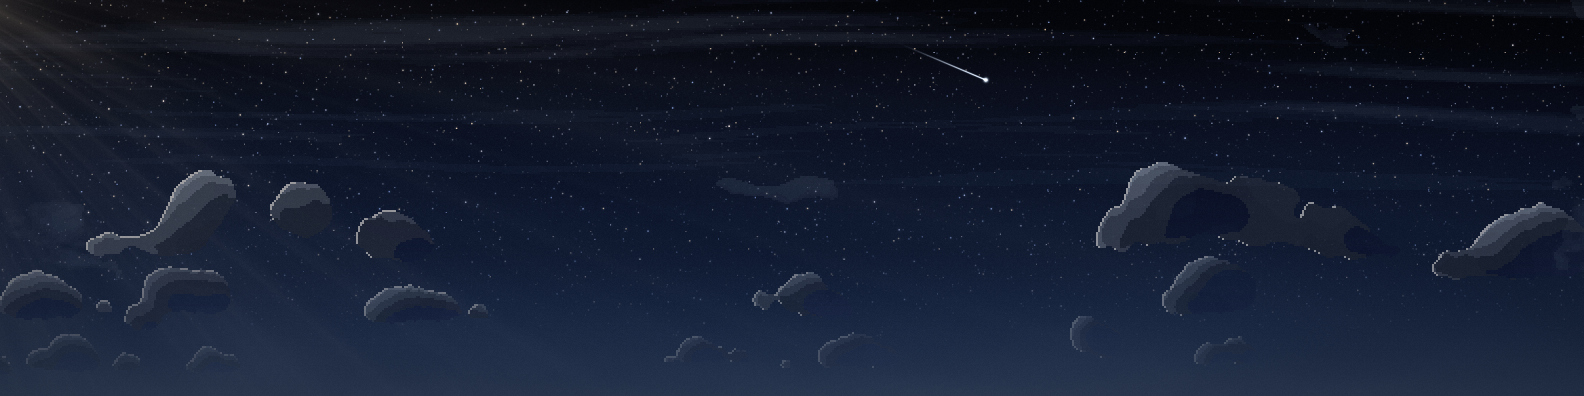
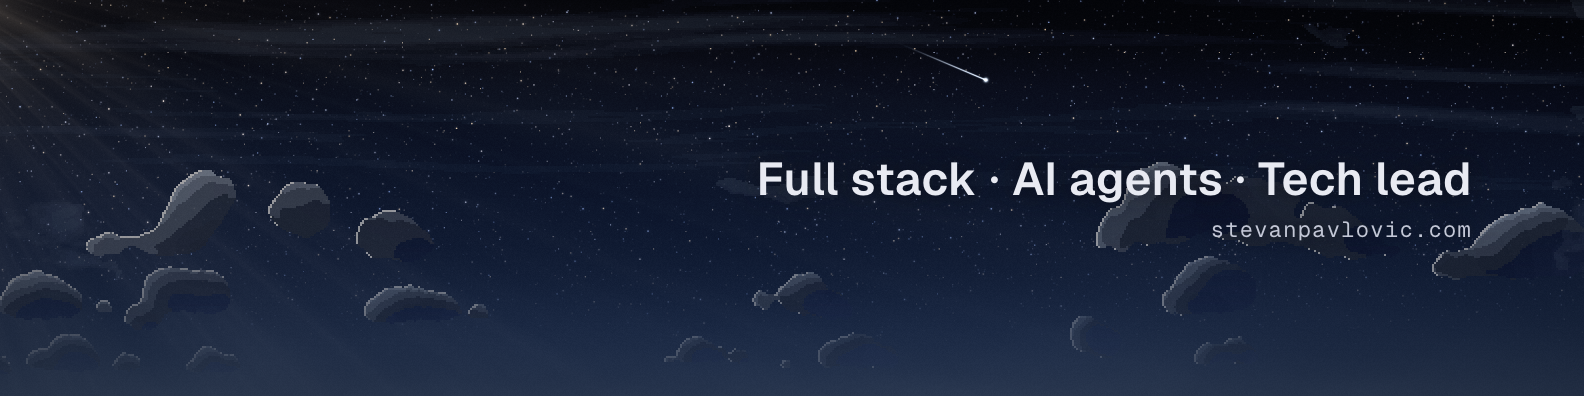
feat(images): add a role line and site name to the LinkedIn cover

Changed region(s): [[0.464, 0.3939, 0.928, 0.5152], [0.7734, 0.5455, 0.928, 0.6061]]

diff --git a/scripts/generate-images.ts b/scripts/generate-images.ts
@@ -159,6 +159,12 @@ const ogBody = (portrait: string): string => `
   </div>
 </div>`;
 
+const coverBody = (): string => `
+<div style="position:absolute;top:0;bottom:0;right:112px;display:flex;flex-direction:column;justify-content:center;align-items:flex-end;gap:16px;text-align:right">
+  <div style="font-family:Geist;font-size:46px;font-weight:600;letter-spacing:0.01em;line-height:1;white-space:nowrap;color:${profilePalette.ring};text-shadow:0 0 28px ${textShade}">${escapeHtml(en.linkedinCover.line)}</div>
+  <div style="font-family:'Geist Mono';font-size:22px;letter-spacing:0.06em;line-height:1;color:${profilePalette.glyph};text-shadow:0 0 18px ${textShade}">${site}</div>
+</div>`;
+
 const storyWidth = 1200;
 const storyHeight = 630;
 
@@ -532,7 +538,7 @@ const specs: ImageSpec[] = [
   },
   {
     background: designTokens.background,
-    body: "",
+    body: coverBody(),
     file: path.join(publicDir, "linkedin-cover.png"),
     height: 396,
     meteor: 0.55,

diff --git a/src/lib/i18n.ts b/src/lib/i18n.ts
@@ -142,6 +142,9 @@ export const en = {
       },
     },
   },
+  linkedinCover: {
+    line: "Full stack · AI agents · Tech lead",
+  },
   llms: {
     about:
       "Software engineer and tech lead. More than eleven years across many stacks and teams, in fintech, betting, healthtech and fleet logistics.",
